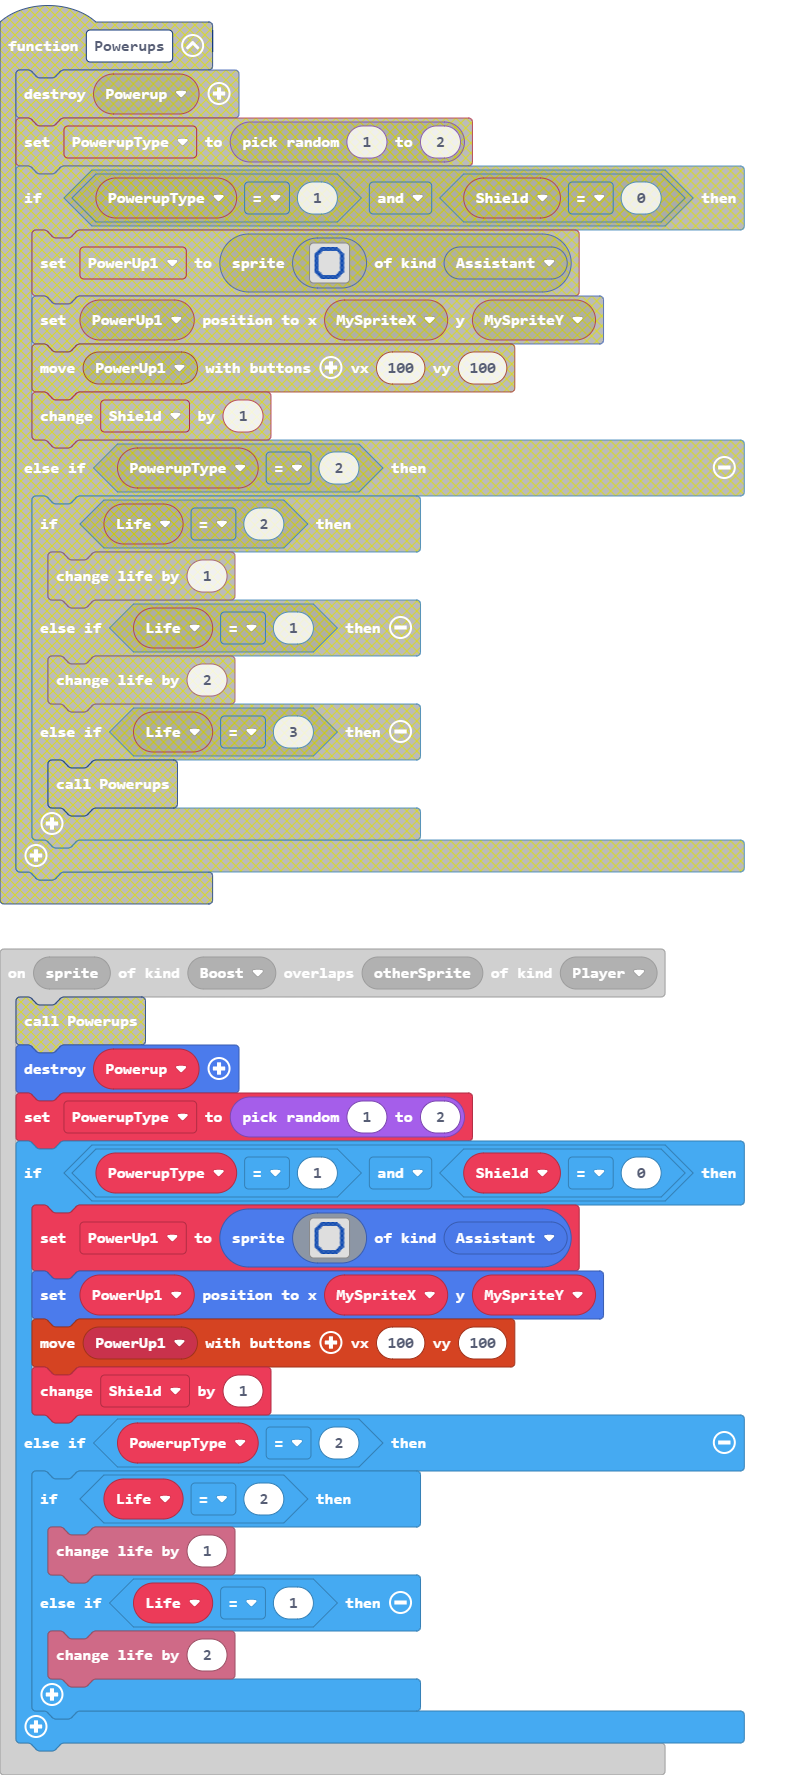
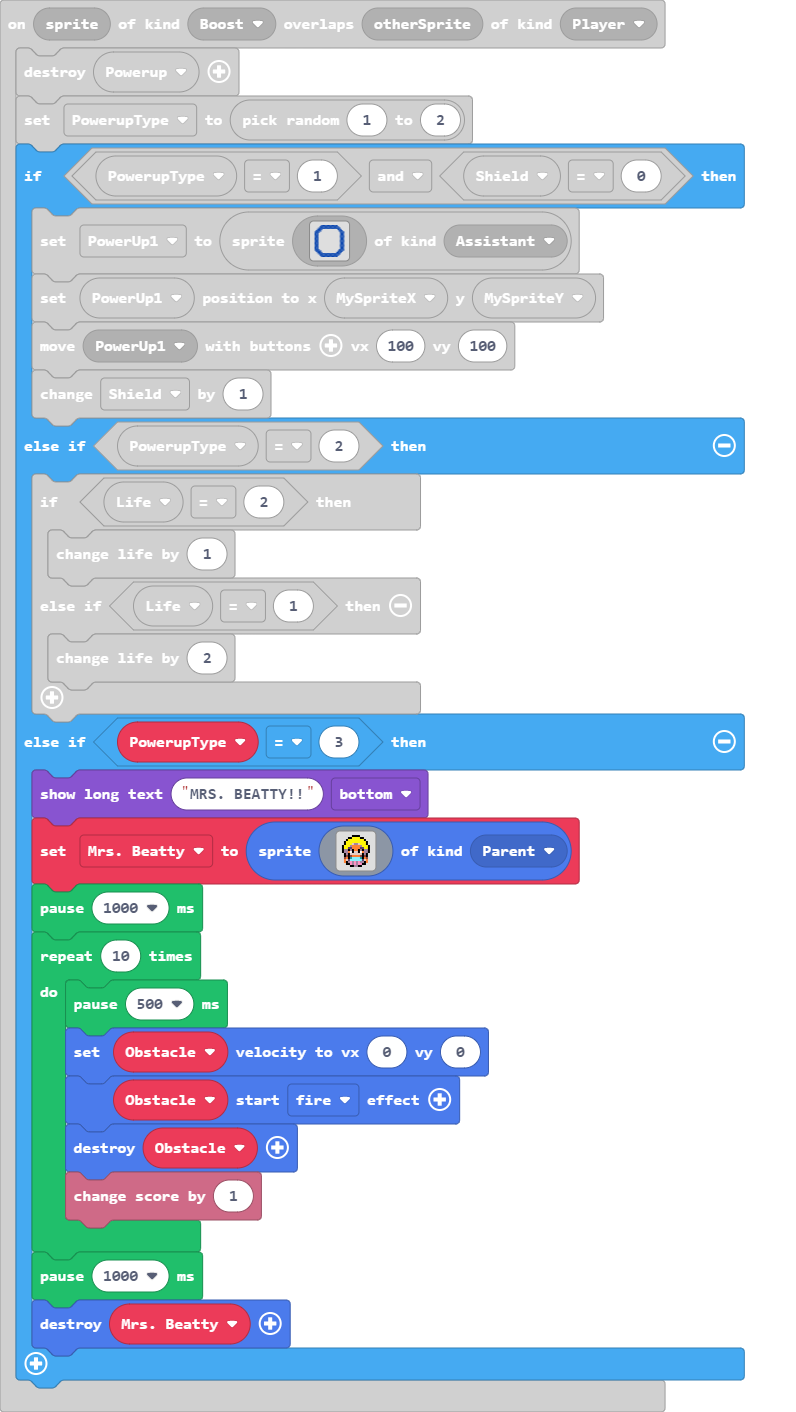
Update images.g.jres, images.g.ts, main.blocks, main.ts

diff --git a/main.ts b/main.ts
@@ -4,6 +4,7 @@ namespace SpriteKind {
     export const Assistant2 = SpriteKind.create()
     export const Assistant3 = SpriteKind.create()
     export const Boost = SpriteKind.create()
+    export const Parent = SpriteKind.create()
 }
 sprites.onOverlap(SpriteKind.Enemy, SpriteKind.Assistant2, function (sprite, otherSprite) {
     Obstacle.destroy()
@@ -319,6 +320,36 @@ sprites.onOverlap(SpriteKind.Boost, SpriteKind.Player, function (sprite, otherSp
         } else if (Life == 1) {
             info.changeLifeBy(2)
         }
+    } else if (PowerupType == 3) {
+        game.showLongText("MRS. BEATTY!!", DialogLayout.Bottom)
+        Mrs_Beatty = sprites.create(img`
+            . . . . . f f f f . . . . . 
+            . . . f f 5 5 5 5 f f . . . 
+            . . f 5 5 5 5 5 5 5 5 f . . 
+            . f 5 5 5 5 5 5 5 5 5 5 f . 
+            . f 5 5 5 d b b d 5 5 5 f . 
+            f 5 5 5 b 4 4 4 4 b 5 5 5 f 
+            f 5 5 c c 4 4 4 4 c c 5 5 f 
+            f b b f b f 4 4 f b f b b f 
+            f b b 4 1 f d d f 1 4 b b f 
+            . f b f d d d d d d f b f . 
+            . f e f e 4 4 4 4 e f e f . 
+            . e 4 f 6 9 9 9 9 6 f 4 e . 
+            . 4 d c 9 9 9 9 9 9 c d 4 . 
+            . 4 f b 3 b 3 b 3 b b f 4 . 
+            . . f f 3 b 3 b 3 3 f f . . 
+            . . . . f f b b f f . . . . 
+            `, SpriteKind.Parent)
+        pause(1000)
+        for (let index = 0; index < 10; index++) {
+            pause(500)
+            Obstacle.setVelocity(0, 0)
+            Obstacle.startEffect(effects.fire)
+            Obstacle.destroy()
+            info.changeScoreBy(1)
+        }
+        pause(1000)
+        Mrs_Beatty.destroy()
     }
 })
 controller.right.onEvent(ControllerButtonEvent.Pressed, function () {
@@ -553,6 +584,7 @@ sprites.onOverlap(SpriteKind.Projectile, SpriteKind.Enemy, function (sprite, oth
     pause(1000)
     otherSprite.destroy()
 })
+let Mrs_Beatty: Sprite = null
 let PowerUp1: Sprite = null
 let PowerupType = 0
 let Powerup: Sprite = null

diff --git a/images.g.ts b/images.g.ts
@@ -225,6 +225,24 @@ f a a f f f d d d d f f f a a f
 ....888888888888888....
 .....8888888888888.....
 `;
+            case "image1":return img`
+. . . . . f f f f . . . . . 
+. . . f f 5 5 5 5 f f . . . 
+. . f 5 5 5 5 5 5 5 5 f . . 
+. f 5 5 5 5 5 5 5 5 5 5 f . 
+. f 5 5 5 d b b d 5 5 5 f . 
+f 5 5 5 b 4 4 4 4 b 5 5 5 f 
+f 5 5 c c 4 4 4 4 c c 5 5 f 
+f b b f b f 4 4 f b f b b f 
+f b b 4 1 f d d f 1 4 b b f 
+. f b f d d d d d d f b f . 
+. f e f e 4 4 4 4 e f e f . 
+. e 4 f 6 9 9 9 9 6 f 4 e . 
+. 4 d c 9 9 9 9 9 9 c d 4 . 
+. 4 f b 3 b 3 b 3 b b f 4 . 
+. . f f 3 b 3 b 3 3 f f . . 
+. . . . f f b b f f . . . . 
+`;
         }
         return null;
     })
